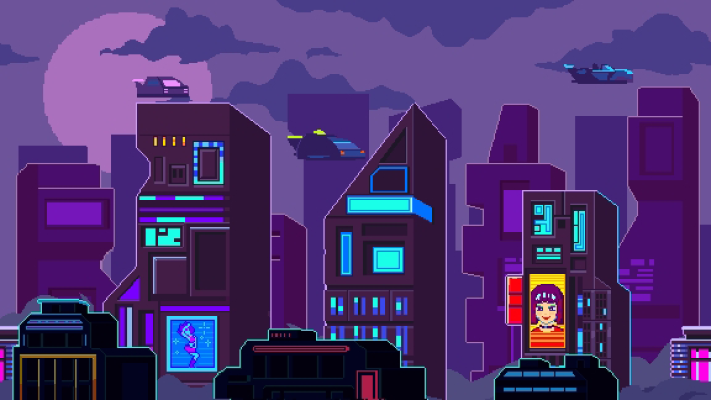
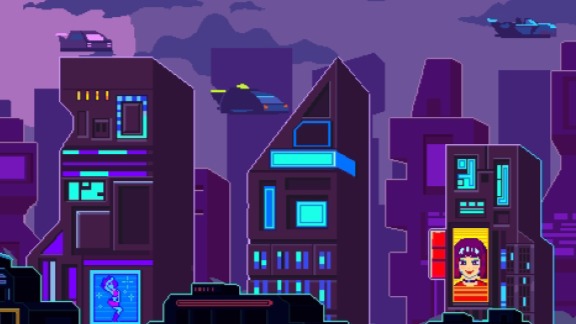
Creating menu interactions Creating ABC class Creating Factory Level 1 Bg implementation: parallax

diff --git a/code/menu.py b/code/menu.py
@@ -4,7 +4,7 @@ import pygame.image
 from pygame import Surface, Rect
 from pygame.font import Font
 
-from code.Const import COLOR_CYAN, COLOR_WHITE, MENU_OPTION, WIN_WIDTH
+from code.Const import COLOR_CYAN, COLOR_WHITE, COLOR_YELLOW, MENU_OPTION, WIN_WIDTH
 
 
 class Menu:
@@ -14,16 +14,19 @@ class Menu:
         self.rect = self.surf.get_rect(left=0, top=0)
 
     def run(self, ):
+        menu_option = 0
         pygame.mixer_music.load('./asset/Menu.wav')
         pygame.mixer_music.play(-1)
         while True:
             self.window.blit(source=self.surf, dest=self.rect)
-            self.menu_text(70, "Futuristic", COLOR_CYAN, ((WIN_WIDTH / 2), 70))
-            self.menu_text(70, "War", COLOR_CYAN, ((WIN_WIDTH / 2), 140))
+            self.menu_text(50, "Futuristic", COLOR_CYAN, ((WIN_WIDTH / 2), 60))
+            self.menu_text(50, "War", COLOR_CYAN, ((WIN_WIDTH / 2), 115))
 
             for i in range(len(MENU_OPTION)):
-                self.menu_text(20, MENU_OPTION[i], COLOR_WHITE, ((WIN_WIDTH / 2), 210 + 40 * i))
-
+                if i == menu_option:
+                    self.menu_text(18, MENU_OPTION[i], COLOR_YELLOW, ((WIN_WIDTH / 2), 180 + 25 * i))
+                else:
+                    self.menu_text(18, MENU_OPTION[i], COLOR_WHITE, ((WIN_WIDTH / 2), 180 + 25 * i))
             pygame.display.flip()
 
             # Check for all events
@@ -31,6 +34,19 @@ class Menu:
                 if event.type == pygame.QUIT:
                     pygame.quit()  # Close window
                     quit()  # End pygame
+                if event.type == pygame.KEYDOWN:
+                    if event.key == pygame.K_DOWN:  # SETA PARA BAIXO
+                        if menu_option < len(MENU_OPTION) - 1:
+                            menu_option += 1
+                        else:
+                            menu_option = 0
+                    if event.key == pygame.K_UP:  # SETA PARA CIMA
+                        if menu_option > 0:
+                            menu_option -= 1
+                        else:
+                            menu_option = len(MENU_OPTION) - 1
+                    if event.key == pygame.K_RETURN:  # TECLA ENTER
+                        return MENU_OPTION[menu_option]
 
     def menu_text(self, text_size: int, text: str, text_color: tuple, text_center_pos: tuple):
         text_font: Font = pygame.font.SysFont(name="Impact", size=text_size, italic=True)

diff --git a/code/level.py b/code/level.py
@@ -1,11 +1,23 @@
 #!/usr/bin/python
 # -*- coding: utf-8 -*-
+import pygame
+
+from code.entity import Entity
+from code.entityFactory import EntityFactory
+
 
 class Level:
-    def __init__(self):
-        self.window = None
-        self.name = None
-        self.entity_list = None
+    def __init__(self, window, name, game_mode):
+        self.window = window
+        self.name = name
+        self.game_mode = game_mode
+        self.entity_list: list[Entity] = []
+        self.entity_list.extend(EntityFactory.get_entity('Level1Bg'))
 
-    def run(self, ):
+    def run(self):
+        while True:
+            for ent in self.entity_list:
+                self.window.blit(source=ent.surf, dest=ent.rect)
+                ent.move()
+            pygame.display.flip()
         pass

diff --git a/code/game.py b/code/game.py
@@ -2,7 +2,8 @@
 # -*- coding: utf-8 -*-
 import pygame
 
-from code.Const import WIN_WIDTH, WIN_HEIGHT
+from code.Const import WIN_WIDTH, WIN_HEIGHT, MENU_OPTION
+from code.level import Level
 from code.menu import Menu
 
 
@@ -14,8 +15,18 @@ class Game:
     def run(self):
         while True:
             menu = Menu(self.window)
-            menu.run()
-            pass
+            menu_return = menu.run()
+
+            if menu_return in [MENU_OPTION[0], MENU_OPTION[1], MENU_OPTION[2]]:
+                level = Level(self.window, 'Level1', menu_return)
+                level_return = level.run()
+            elif menu_return == MENU_OPTION[4]:
+                pygame.quit()
+                quit()
+            else:
+                pass
+
+
 
 
 

diff --git a/code/entityFactory.py b/code/entityFactory.py
@@ -1,9 +1,19 @@
 #!/usr/bin/python
 # -*- coding: utf-8 -*-
+from code.Const import WIN_WIDTH
+from code.background import Background
+
 
 class EntityFactory:
-    def __init__(self):
-        pass
 
-    def get_entity(self, entity_type):
-        pass
+    @staticmethod
+    def get_entity(entity_name: str, position=(0, 0)):
+        match entity_name:
+            case 'Level1Bg':
+                list_bg = []
+                for i in range(9):
+                    list_bg.append(Background(f'Level1Bg{i}', (0, 0)))
+                    list_bg.append(Background(f'Level1Bg{i}', (WIN_WIDTH, 0)))
+                return list_bg
+
+

diff --git a/code/entity.py b/code/entity.py
@@ -1,11 +1,17 @@
 #!/usr/bin/python
 # -*- coding: utf-8 -*-
+from abc import ABC, abstractmethod
 
-class Entity:
-    def __init__(self):
-        self.name = None
-        self.surf = None
-        self.rect = None
+import pygame.image
 
+
+class Entity(ABC):
+    def __init__(self, name: str, position: tuple):
+        self.name = name
+        self.surf = pygame.image.load('./asset/' + name + '.png')
+        self.rect = self.surf.get_rect(left=position[0], top=position[1])
+        self.speed = 0
+
+    @abstractmethod
     def move(self, ):
         pass

diff --git a/code/background.py b/code/background.py
@@ -1,12 +1,15 @@
 #!/usr/bin/python
 # -*- coding: utf-8 -*-
-
-from Entity import Entity
+from code.Const import WIN_WIDTH, ENTITY_SPEED
+from code.entity import Entity
 
 
 class Background(Entity):
-    def __init__(self):
-        pass
+    def __init__(self, name: str, position: tuple):
+        super().__init__(name, position)
 
     def move(self, ):
-        pass
+        self.rect.centerx -= ENTITY_SPEED[self.name]  # VELOCIDADE DA PARALLAX
+        if self.rect.right <= 0:
+            self.rect.left = WIN_WIDTH
+

diff --git a/code/Const.py b/code/Const.py
@@ -1,6 +1,20 @@
 # C
 COLOR_CYAN = (143, 214, 255)
 COLOR_WHITE = (255, 255, 255)
+COLOR_YELLOW = (255, 229, 61)
+
+# E
+ENTITY_SPEED = {
+    'Level1Bg0': 0,
+    'Level1Bg1': 0.2,
+    'Level1Bg2': 2,
+    'Level1Bg3': 3,
+    'Level1Bg4': 4,
+    'Level1Bg5': 5,
+    'Level1Bg6': 6,
+    'Level1Bg7': 7,
+    'Level1Bg8': 8,
+}
 
 # M
 MENU_OPTION = ('NEW GAME 1P',
@@ -10,5 +24,5 @@ MENU_OPTION = ('NEW GAME 1P',
                'EXIT')
 
 # W
-WIN_WIDTH = 711
-WIN_HEIGHT = 400
+WIN_WIDTH = 576
+WIN_HEIGHT = 324
